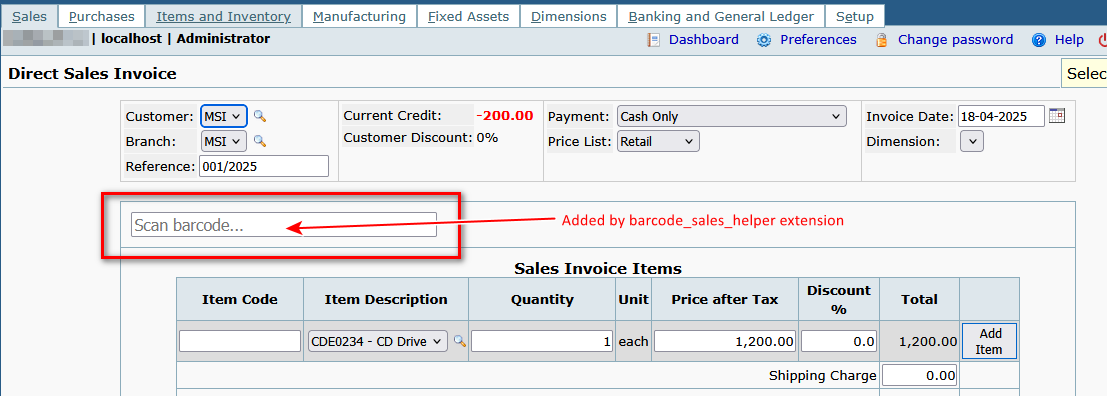
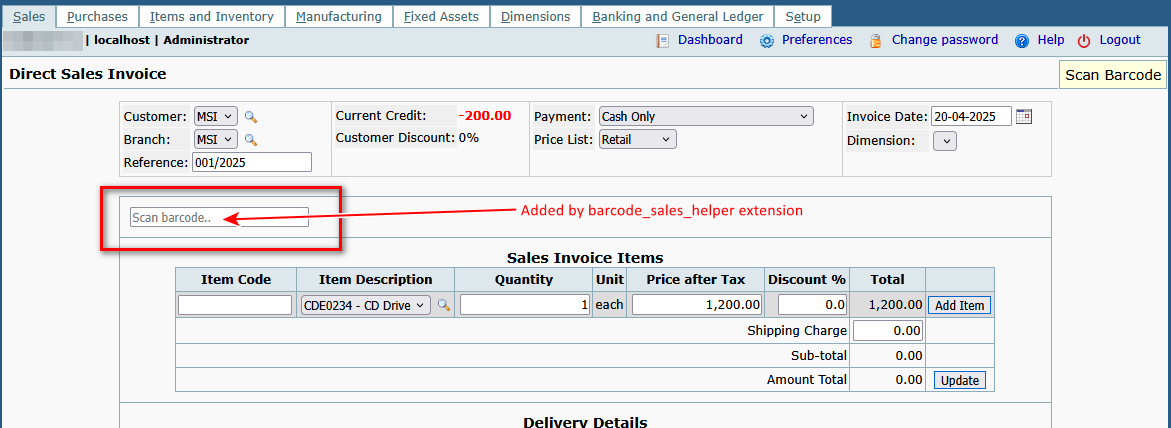
Updated barcode_sales_helper extension files https://frontaccounting.com/punbb/viewtopic.php?pid=43612#p43612 Whitespaces synched with core file Screenshot updated

diff --git a/Extensions/barcode_sales_helper/barcode_helper_v3.js b/Extensions/barcode_sales_helper/barcode_helper_v3.js
@@ -42,6 +42,7 @@ document.addEventListener('DOMContentLoaded', function () {
                     // Set the form fields
                     const stockIdField = document.getElementsByName('stock_id')[0];
                     const qtyField = document.getElementsByName('qty')[0];
+                    const priceField = document.getElementsByName('price')[0];
 
                     if (!stockIdField || !qtyField) {
                         alert("❌ One or more input fields not found in the form.");
@@ -50,6 +51,7 @@ document.addEventListener('DOMContentLoaded', function () {
 
                     stockIdField.value = data.stock_id;
                     qtyField.value = '1'; // default quantity
+                    priceField.value = data.price;
 
                     console.log("🛒 Adding item:", data.stock_id);
 
@@ -65,12 +67,6 @@ document.addEventListener('DOMContentLoaded', function () {
                         // First attempt to focus immediately
                         barcodeInput.value = '';
                         barcodeInput.focus();
-                    
-                        // In case FA redraws the DOM and steals focus, do it again after a short delay
-                        setTimeout(() => {
-                            barcodeInput.focus();
-                            console.log("🔁 Refocused on barcode input");
-                        }, 300); // Delay can be tweaked
                     
                     }, 100);
                     

diff --git a/Extensions/barcode_sales_helper/sales_order_entry.php b/Extensions/barcode_sales_helper/sales_order_entry.php
@@ -360,7 +360,7 @@ function line_start_focus() {
   	global 	$Ajax;
 
   	$Ajax->activate('items_table');
-  	set_focus('_stock_id_edit');
+  	set_focus('barcode_input');
 }
 
 //--------------------------------------------------------------------------------
@@ -757,9 +757,8 @@ $customer_error = display_order_header($_SESSION['Items'], !$_SESSION['Items']->
 
 if ($customer_error == "") {
 	start_table(TABLESTYLE, "width='80%'", 10);
-	echo "<tr><td colspan='2'>";
-	echo "<input type='text' id='barcode_input' placeholder='Scan barcode...' autofocus style='width: 300px; font-size: 16px;'>";
-	echo "</td></tr>";
+	text_cells(NULL, 'barcode_input', "", 25, 25, "Scan Barcode", "", "", "id='barcode_input' placeholder='Scan barcode..'");
+	line_start_focus();
 	echo "<tr><td>";
 	display_order_summary($orderitems, $_SESSION['Items'], true);
 	echo "</td></tr>";
@@ -791,10 +790,6 @@ if ($customer_error == "") {
 }
 
 end_form();
-echo "<script>
-    console.log('✅ Inline JS is running!');
-</script>";
 
-global $path_to_root;
 echo "<script src='{$path_to_root}/modules/barcode_sales_helper/barcode_helper_v3.js'></script>";
 end_page();

diff --git a/Extensions/barcode_sales_helper/get_item_from_barcode.php b/Extensions/barcode_sales_helper/get_item_from_barcode.php
@@ -13,7 +13,8 @@ $sql = "SELECT stock_id FROM 0_stock_master WHERE stock_id = ".db_escape($barcod
 $res = db_query($sql, "Could not find item by barcode");
 
 if ($row = db_fetch($res)) {
-    echo json_encode(['success' => true, 'stock_id' => $row['stock_id']]);
+    $price = get_stock_price_type_currency($row['stock_id'], get_company_pref('base_sales'), get_company_pref('curr_default'))['price'];
+    echo json_encode(['success' => true, 'stock_id' => $row['stock_id'], 'price'=>$price]);
 } else {
     echo json_encode(['success' => false]);
 }
